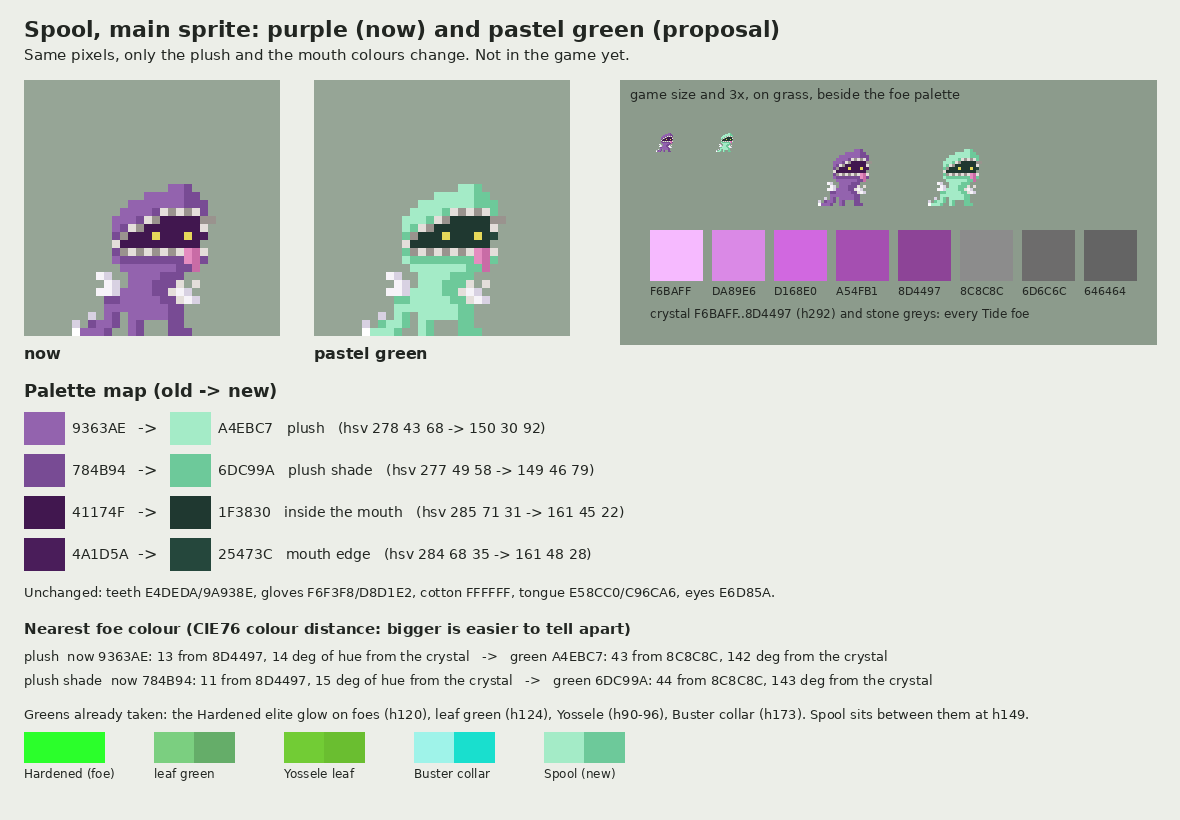
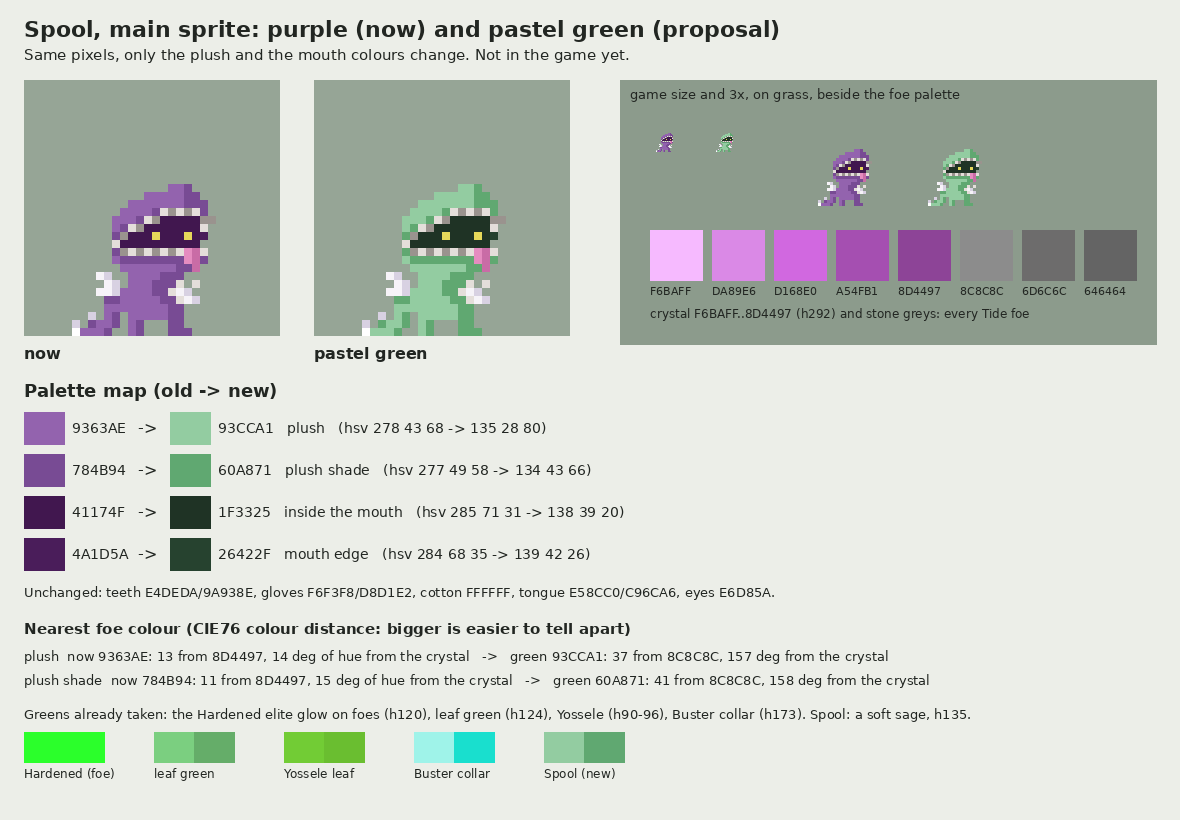
Spool: darker sage green instead of the bright mint, at Dimitri's word
93CCA1 / 60A871 (h135, value 80, saturation 28) with a deep green mouth.
README, generator and before/after image follow.

Claude-Session: https://claude.ai/code/session_01RkaCMPzpZM5EmkBNVLvSzC

diff --git a/concept-tools/temp_art/spool_pastel.py b/concept-tools/temp_art/spool_pastel.py
@@ -2,7 +2,8 @@
 
 Dimitri, 2026-11-05: "Spool's current color scheme is too similar to enemy units. Swap Spool's color scheme to pastel
 yellow, but only recolor the main sprite for now so I can see an example." Then, 03:00Z: "Change the color to pastel
-green instead." The main sprite is his reshade, embedded
+green instead." 03:05Z: "The color is too minty and bright. Darken the green while keeping the pastel theme."
+The main sprite is his reshade, embedded
 pixel for pixel as `Front` in `TDS_Mod/Assets/SpoolMod/Editor/SpoolCharacter.cs` with the palette `P` beside it. This
 script reads both from that file, so the "before" is exactly what the game builds, and swaps only the purple family:
 the plush (a, b) and the dark inside the mouth (m, n). Every pixel stays where it is; teeth, gloves, cotton, tongue and
@@ -28,14 +29,15 @@ from tart import Canvas, H, REPO, preview, save_ase, save_png
 SRC = os.path.join(REPO, 'TDS_Mod', 'Assets', 'SpoolMod', 'Editor', 'SpoolCharacter.cs')
 OUT = os.path.join(REPO, 'TDS_Mod', 'ModSource', 'Spool', 'Art', 'Temporary', 'pastel_green_2026-11-05')
 
-# Old -> new, only the purple family. Mint h149, picked in the gap between the greens already taken: the Hardened
-# elite's glow on foes (h120), the shared leaf green (h124), Yossele's leaf and eyes (h90-96) and Buster's collar
-# (h173). Shade same hue, +15 saturation, -14 value; a deep green near-black for the mouth.
+# Old -> new, only the purple family. A soft sage, h135 at value 80: darker and less blue than the first mint (h149,
+# value 92, "too minty and bright"), still pastel (saturation 28). Greens already taken: the Hardened elite's glow on
+# foes (h120, saturated), the shared leaf green (h124), Yossele's leaf and eyes (h90-96), Buster's collar (h173).
+# Shade same hue, +15 saturation, -15 value; a deep green near-black for the mouth.
 NEW = {
-    'a': ('plush', '9363AE', 'A4EBC7'),
-    'b': ('plush shade', '784B94', '6DC99A'),
-    'm': ('inside the mouth', '41174F', '1F3830'),
-    'n': ('mouth edge', '4A1D5A', '25473C'),
+    'a': ('plush', '9363AE', '93CCA1'),
+    'b': ('plush shade', '784B94', '60A871'),
+    'm': ('inside the mouth', '41174F', '1F3325'),
+    'n': ('mouth edge', '4A1D5A', '26422F'),
 }
 
 # What Spool must not look like (kit docs/18 section 5, reference/palettes/tds_foes.gpl): every Tide foe's crystal and
@@ -168,7 +170,7 @@ def compare(before, after, pal_old, pal_new):
         y += 24
     y += 10
     d.text((24, y), 'Greens already taken: the Hardened elite glow on foes (h120), leaf green (h124), Yossele (h90-96), '
-           'Buster collar (h173). Spool sits between them at h149.', font=font(13), fill=INK)
+           'Buster collar (h173). Spool: a soft sage, h135.', font=font(13), fill=INK)
     for i, (name, a, b) in enumerate(FRIENDS):
         bx = 24 + i * 130
         d.rectangle([bx, y + 26, bx + 40, y + 56], fill=H(a)[:3])

diff --git a/TDS_Mod/ModSource/Spool/Art/Temporary/pastel_green_2026-11-05/README.md b/TDS_Mod/ModSource/Spool/Art/Temporary/pastel_green_2026-11-05/README.md
@@ -2,8 +2,10 @@
 
 **A proposal, not wired.** Dimitri, 2026-11-05: "Spool's current color scheme is too similar to enemy units. Swap
 Spool's color scheme to pastel yellow, but only recolor the main sprite for now so I can see an example." After seeing the yellow
-he asked, 03:00Z: "Change the color to pastel green instead." The game still draws Spool in purple from `SpoolCharacter.P` (`Assets/SpoolMod/Editor/SpoolCharacter.cs`); nothing here is read
-by a build.
+he asked, 03:00Z: "Change the color to pastel green instead." Of the first green, a bright mint (`A4EBC7`, h149),
+03:05Z: "The color is too minty and bright. Darken the green while keeping the pastel theme." This is the darker one.
+The game still draws Spool in purple from `SpoolCharacter.P` (`Assets/SpoolMod/Editor/SpoolCharacter.cs`); nothing
+here is read by a build.
 
 ![before and after](preview_8x/Spool_Pastel_compare.png)
 
@@ -21,15 +23,16 @@ pixel for pixel, checked 2026-11-05).
 ## Palette map
 
 Only the purple family changes: 147 of the sprite's 195 pixels, none moved. The shade keeps the hue within 2 degrees
-and gains saturation, the mouth's dark is a deep green near-black (kit `docs/18` §3). The hue, mint h149, sits in the
-gap between the greens the game and the pack already use (below).
+and gains saturation, the mouth's dark is a deep green near-black (kit `docs/18` §3). The green is a soft sage, h135
+at value 80 (the mint was h149 at 92): less blue, darker, still pastel at saturation 28. The kit asks a vessel's main
+colour for value 90-100 (`docs/18` §4.2); this one is 80 at Dimitri's word.
 
 | Key | Role | Old | New | Old h s v | New h s v |
 | --- | --- | --- | --- | --- | --- |
-| `a` | plush | `9363AE` | `A4EBC7` | 278 43 68 | 150 30 92 |
-| `b` | plush shade | `784B94` | `6DC99A` | 277 49 58 | 149 46 79 |
-| `m` | inside the mouth | `41174F` | `1F3830` | 285 71 31 | 161 45 22 |
-| `n` | mouth edge | `4A1D5A` | `25473C` | 284 68 35 | 161 48 28 |
+| `a` | plush | `9363AE` | `93CCA1` | 278 43 68 | 135 28 80 |
+| `b` | plush shade | `784B94` | `60A871` | 277 49 58 | 134 43 66 |
+| `m` | inside the mouth | `41174F` | `1F3325` | 285 71 31 | 138 39 20 |
+| `n` | mouth edge | `4A1D5A` | `26422F` | 284 68 35 | 139 42 26 |
 
 Unchanged: teeth and cuffs `E4DEDA` / `9A938E`, gloves `F6F3F8` / `D8D1E2`, cotton `FFFFFF`, tongue `E58CC0` /
 `C96CA6`, eyes `E6D85A`. The severed arm on the floor keeps its white cotton end against the new shade.
@@ -38,19 +41,20 @@ Unchanged: teeth and cuffs `E4DEDA` / `9A938E`, gloves `F6F3F8` / `D8D1E2`, cott
 
 - **Every Tide foe** (kit `docs/18` §5.1, `TDS_Vessel_Creator/reference/palettes/tds_foes.gpl`): the magenta crystal
   `F6BAFF` `DA89E6` `D168E0` `A54FB1` `8D4497` (h292) and the stone greys `8C8C8C` `6D6C6C` `646464`. Spool's plush was
-  13 (shade 11) CIE76 units from the crystal's `8D4497` and 14-15 degrees of hue from it; the green is 43 (shade 44)
-  from the nearest foe colour, a grey, and 142-143 degrees of hue from the crystal. The mouth's dark sits about as far
-  from the stone grey (24, edge 22) as the old one sat from the crystal (29, edge 24); it is small and inside the hood.
+  13 (shade 11) CIE76 units from the crystal's `8D4497` and 14-15 degrees of hue from it; the green is 37 (shade 41)
+  from the nearest foe colour, a grey, and 157-158 degrees of hue from the crystal. The mouth's dark sits about as far
+  from the stone grey (27, edge 25) as the old one sat from the crystal (29, edge 24); it is small and inside the hood.
 - **The elite skins** (material tints over foes, `reference/art_survey_2026-10-15.txt` part 3): Hardened green,
   Superheated white, Tempered red, Fractured near-black, Annealed a faint bronze (h22, 6% alpha), Molten orange-red.
-  **Hardened is green** (`_Tintcolor` 1.75, 11.98, 1.75: h120), so a Hardened foe glows green. Spool's mint is 30
-  degrees away, much paler, and Hardened stays on a grey and magenta crystal body; still, this is the one foe look to
-  check by eye next to Spool in game.
+  **Hardened is green** (`_Tintcolor` 1.75, 11.98, 1.75: h120), so a Hardened foe glows green. Spool's sage is 15
+  degrees away in hue but soft and grey-green where Hardened is a saturated glow, and a Hardened foe keeps its grey and
+  magenta crystal body. Still, this is the one foe look to check by eye next to Spool in game.
 - **Greens already taken** (`tds_base_vessels.gpl`, `docs/STYLE.md`): the shared leaf green `7BCF80` / `65AD69` (h124,
   Smacky's sprout, Sno Sno), Yossele's leaf `72CC35` / `6ABE30` and eyes `99E550` (h90-96), Buster's collar `9FF3E9` /
-  `19DFCE` (h173). Mint h149 sits in the middle of that gap (25 degrees from the leaf green and from Buster's collar,
-  53 from Yossele). Green on the map's grass is the other thing to look at in game: on the house checker the paler
-  plush and the darker shade both stand off it.
+  `19DFCE` (h173). The sage (h135) is near the leaf green in hue but
+  paler and greyer; the leaf green is a small accent on those vessels, not a body colour. Green on the map's grass is the
+  other thing to look at in game: darkening it brings it closer to the grass, and on the house checker it still stands
+  off by its paler plush, darker shade and the white gloves and teeth.
   The kit's rule (`docs/18` §4.2, no saturated hue in 270-320 degrees) now holds for Spool, so its §7 exception would go
   once the follow-up lands.
 
